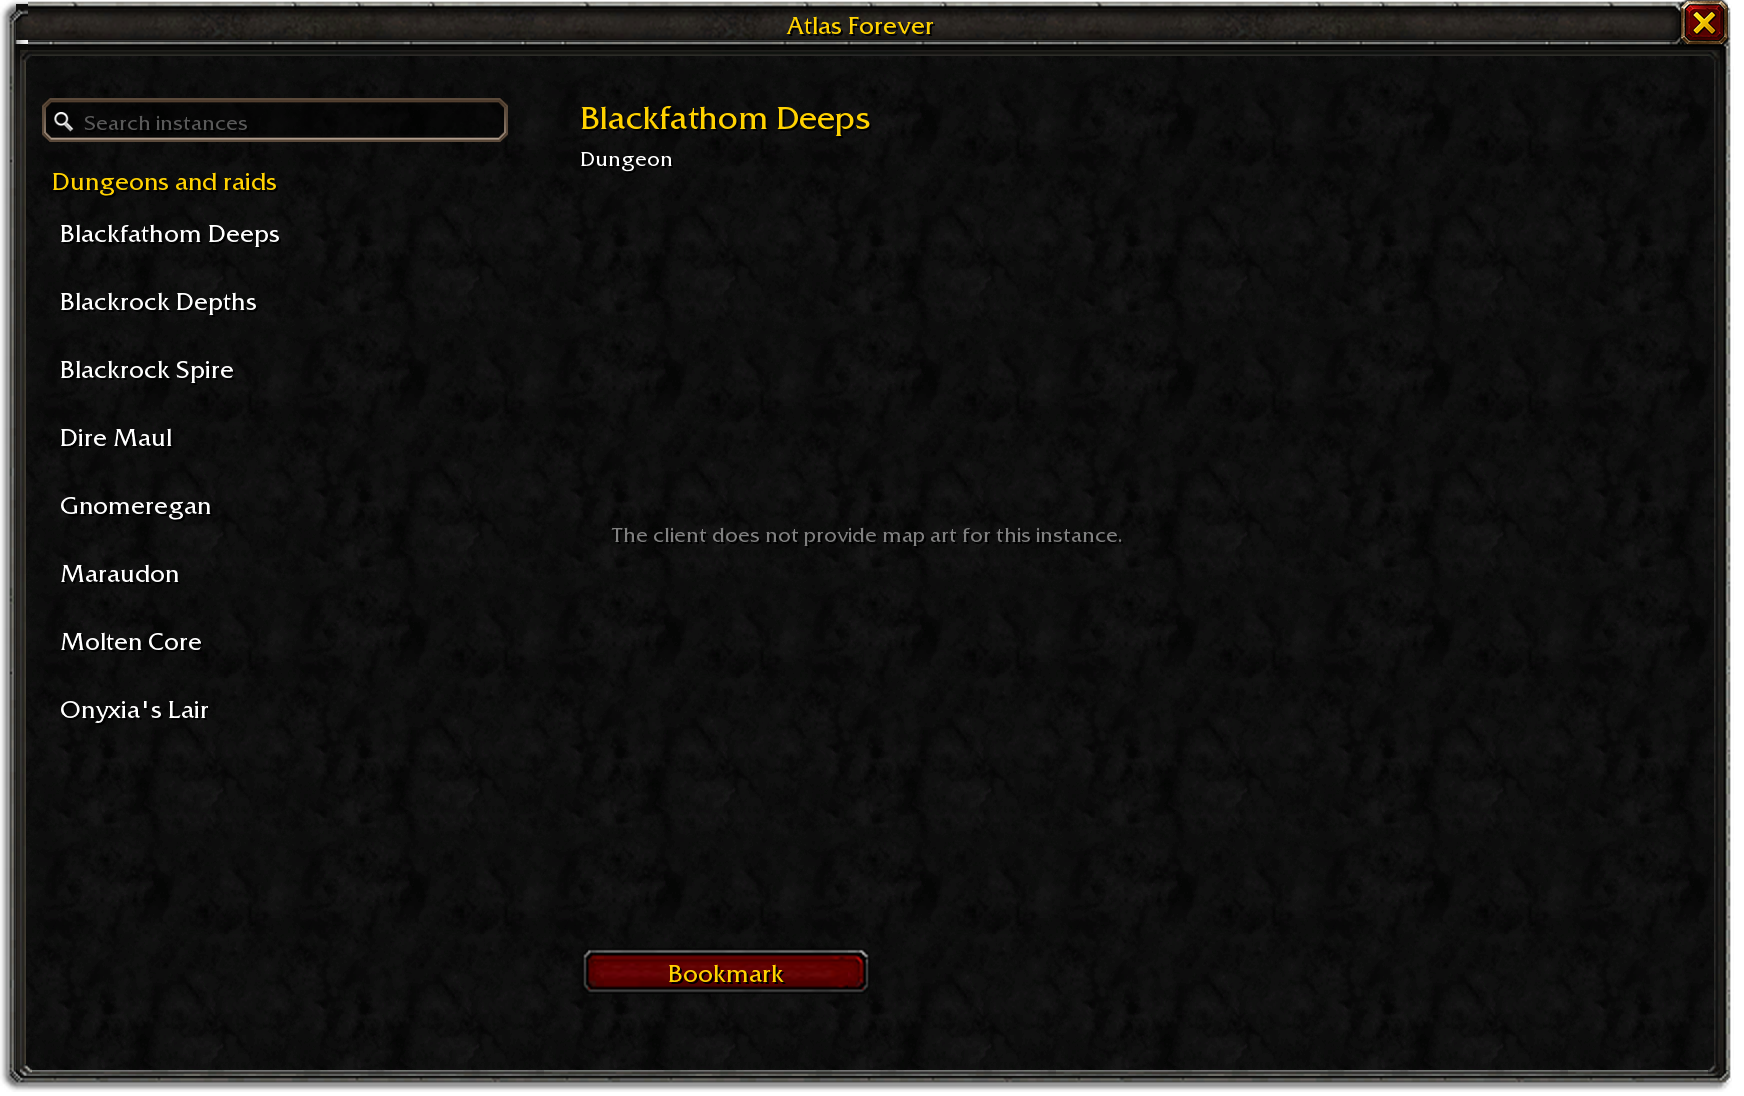
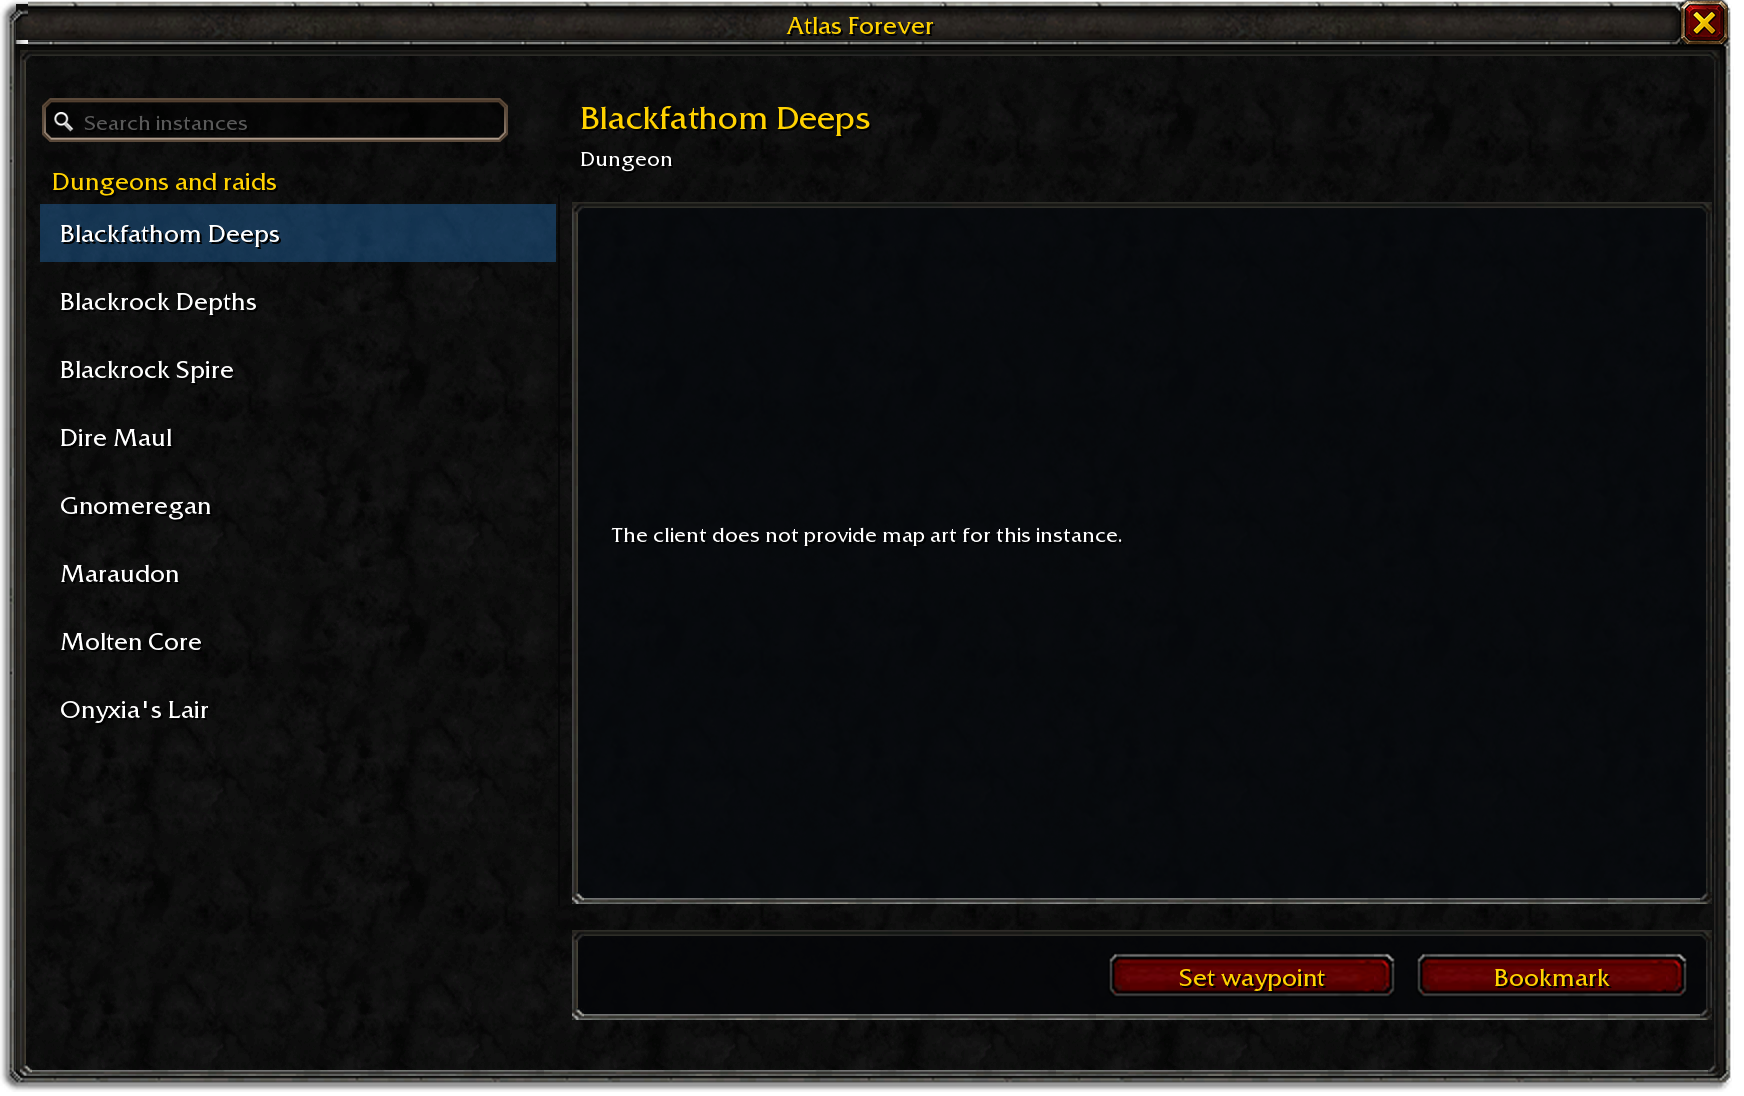
fix: polish instance browser window

Changed region(s): [[0.3096, 0.7135, 0.9908, 0.9307], [0.0, 0.1861, 0.3406, 0.6825], [0.3716, 0.4653, 0.6193, 0.4964]]

diff --git a/tools/screenshots.py b/tools/screenshots.py
@@ -18,6 +18,8 @@ def browser(ui):
     # Left column: Blizzard's search box and a compact instance list.
     wowmock.search_box(canvas, x + 20, y + 48, 228, 22, "Search instances")
     canvas.text(x + 20, y + 82, "Dungeons and raids", wowmock.FONTS["GameFontNormal"])
+    # A restrained selected state sits behind the first row, as in the actual scroll list.
+    canvas.fill(x + 14, y + 101, 258, 29, (0.12, 0.38, 0.62, 0.48))
     instance_rows = [
         row
         for row in ui.table("Map").values()
@@ -31,20 +33,28 @@ def browser(ui):
     for index, row in enumerate(rows):
         top = y + 108 + index * 34
         canvas.text(x + 24, top, row["MapName_lang"], wowmock.FONTS["GameFontHighlight"])
+    canvas.fill(x + 273, y + 96, 1, 356, (0.02, 0.02, 0.025, 0.82))
     selected = rows[0] if rows else None
     if selected:
         canvas.text(x + 284, y + 48, selected["MapName_lang"], wowmock.FONTS["GameFontNormalLarge"])
         kind = "Dungeon" if selected["InstanceType"] == "1" else "Raid"
         canvas.text(x + 284, y + 72, kind, wowmock.FONTS["GameFontHighlightSmall"])
+        canvas.fill(x + 280, y + 100, 570, 350, (0.025, 0.035, 0.05, 0.82))
+        canvas.nine_slice(wowmock.INSET_FRAME_LAYOUT, x + 280, y + 100, 570, 350)
         canvas.text(
             x + 300,
             y + 260,
             "The client does not provide map art for this instance.",
-            wowmock.FONTS["GameFontDisableSmall"],
+            wowmock.FONTS["GameFontHighlightSmall"],
         )
     else:
-        canvas.text(x + 300, y + 260, "No instances are in this client build.", wowmock.FONTS["GameFontDisableSmall"])
-    wowmock.ui_panel_button(canvas, x + 284, y + 472, 146, 24, "Bookmark")
+        canvas.fill(x + 280, y + 100, 570, 350, (0.025, 0.035, 0.05, 0.82))
+        canvas.nine_slice(wowmock.INSET_FRAME_LAYOUT, x + 280, y + 100, 570, 350)
+        canvas.text(x + 300, y + 260, "No instances are in this client build.", wowmock.FONTS["GameFontHighlightSmall"])
+    canvas.fill(x + 280, y + 464, 570, 44, (0.02, 0.025, 0.035, 0.9))
+    canvas.nine_slice(wowmock.INSET_FRAME_LAYOUT, x + 280, y + 464, 570, 44)
+    wowmock.ui_panel_button(canvas, x + 547, y + 474, 146, 24, "Set waypoint")
+    wowmock.ui_panel_button(canvas, x + 701, y + 474, 138, 24, "Bookmark")
     return canvas
 
 
